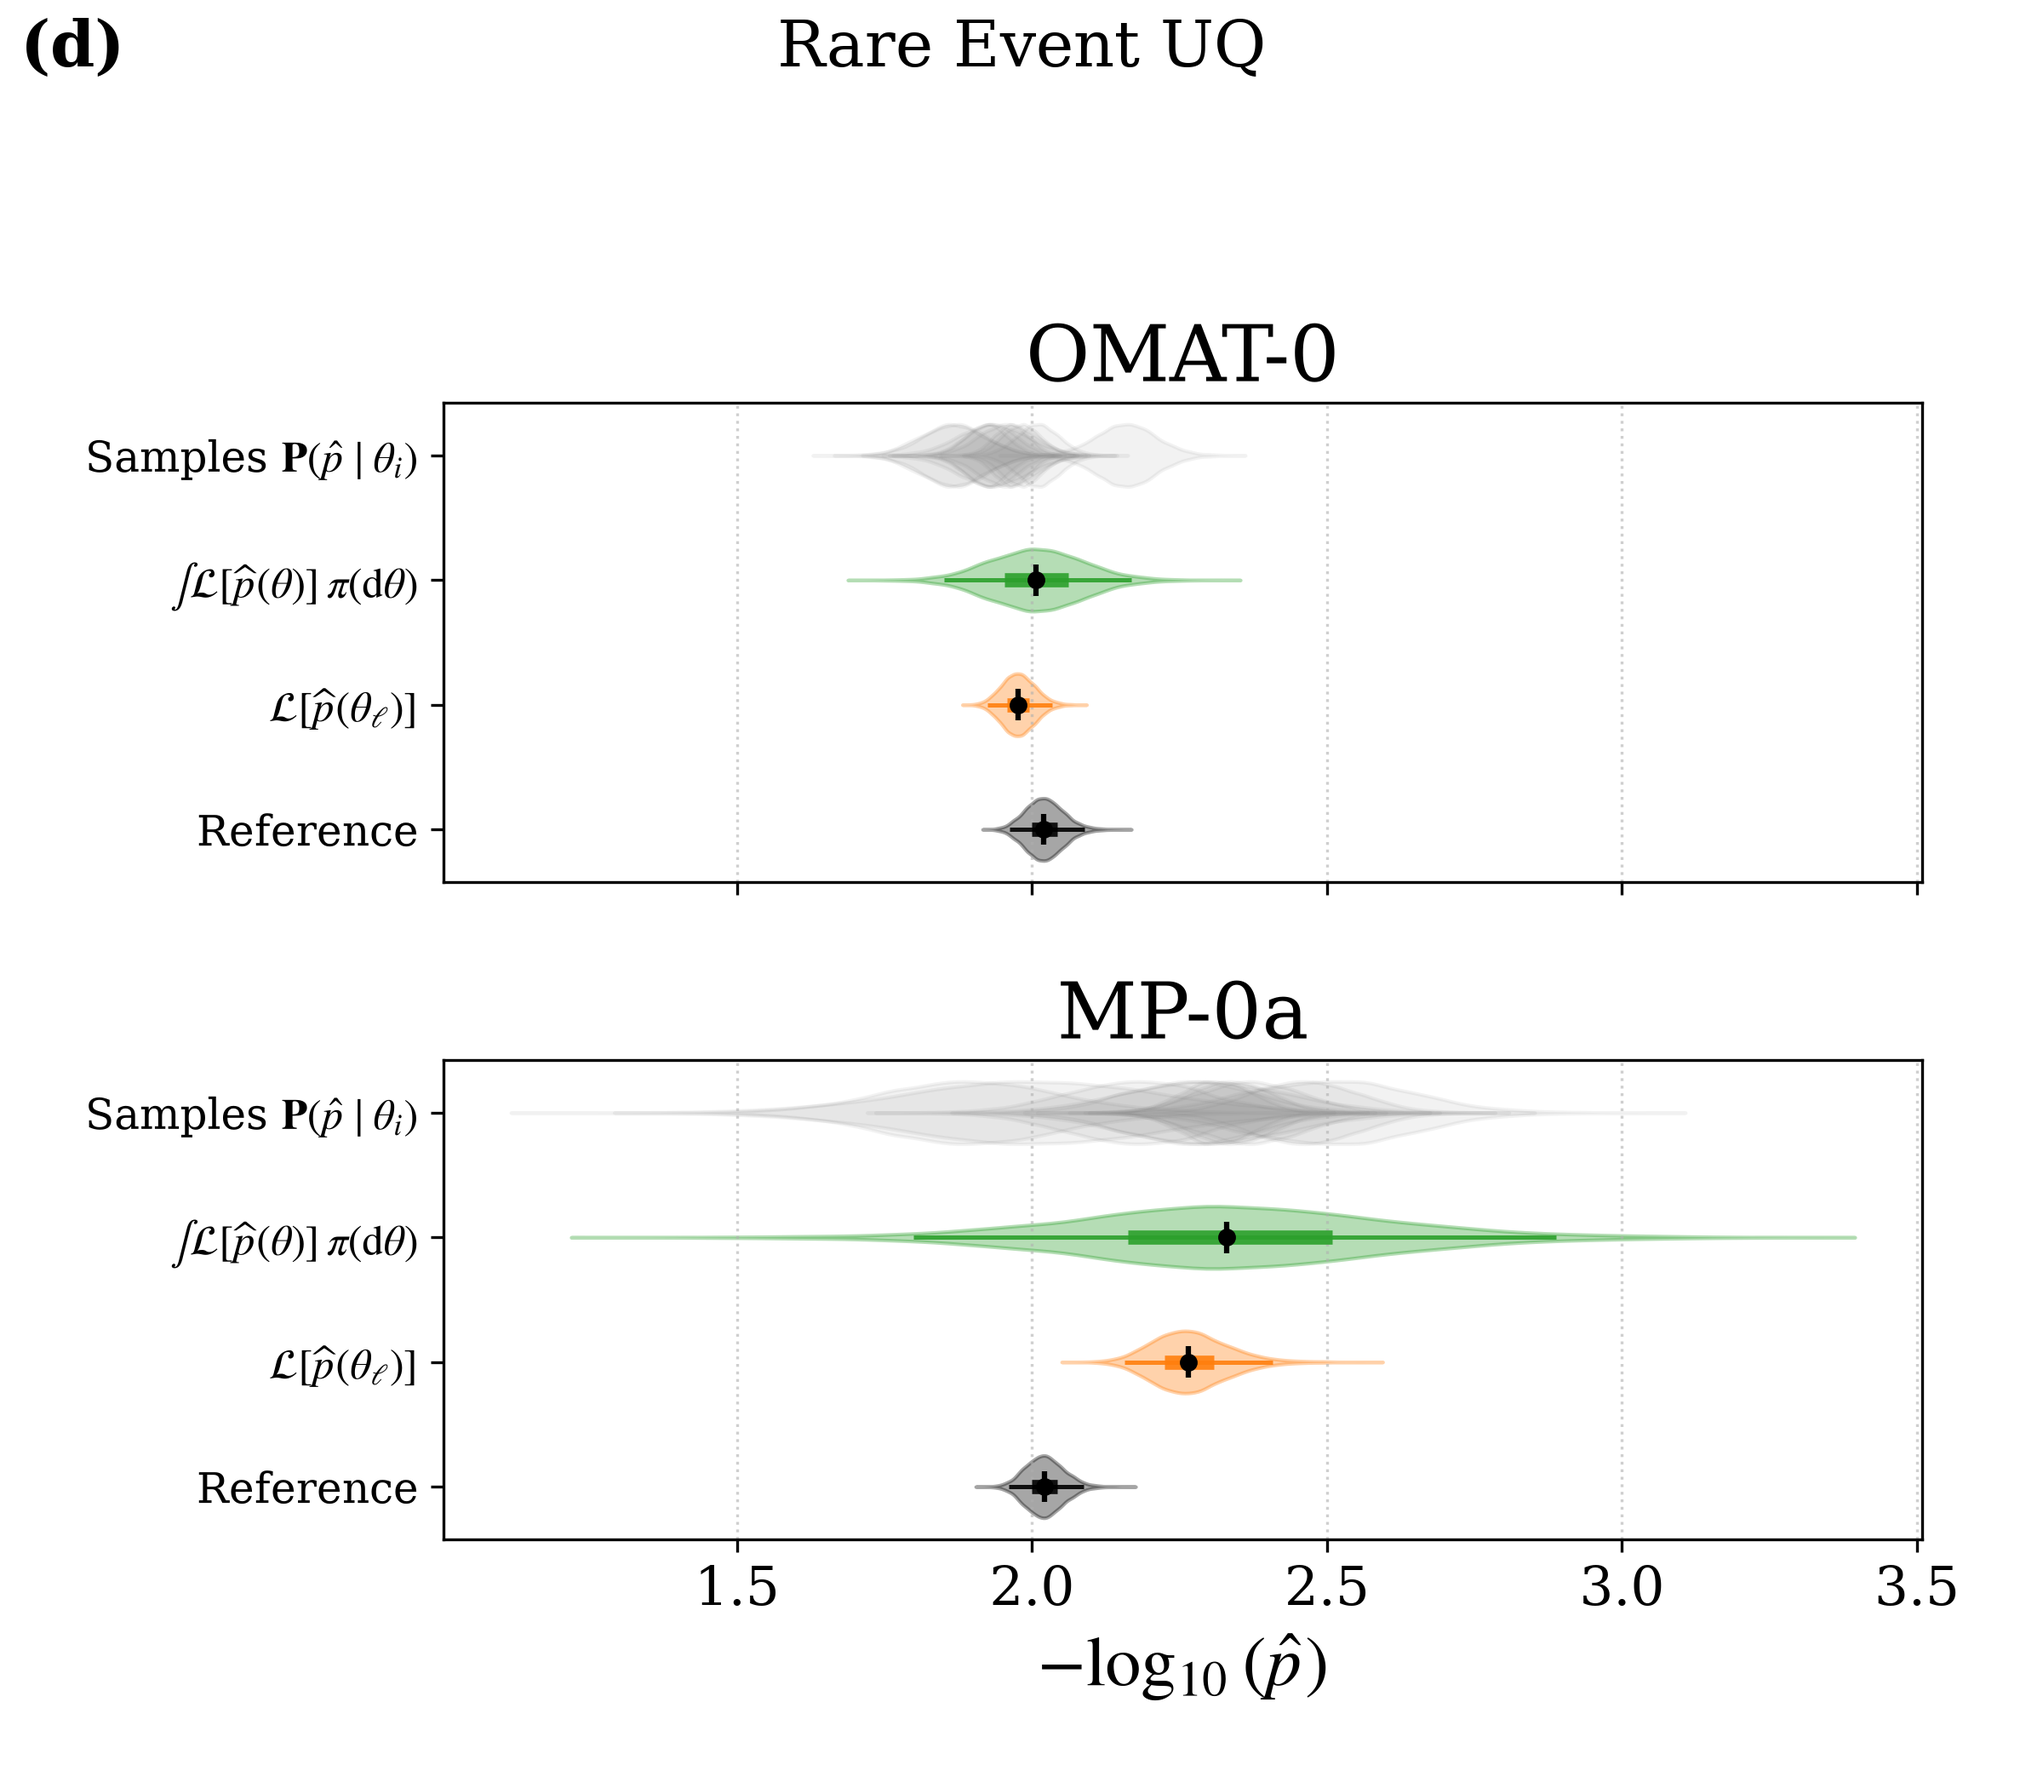
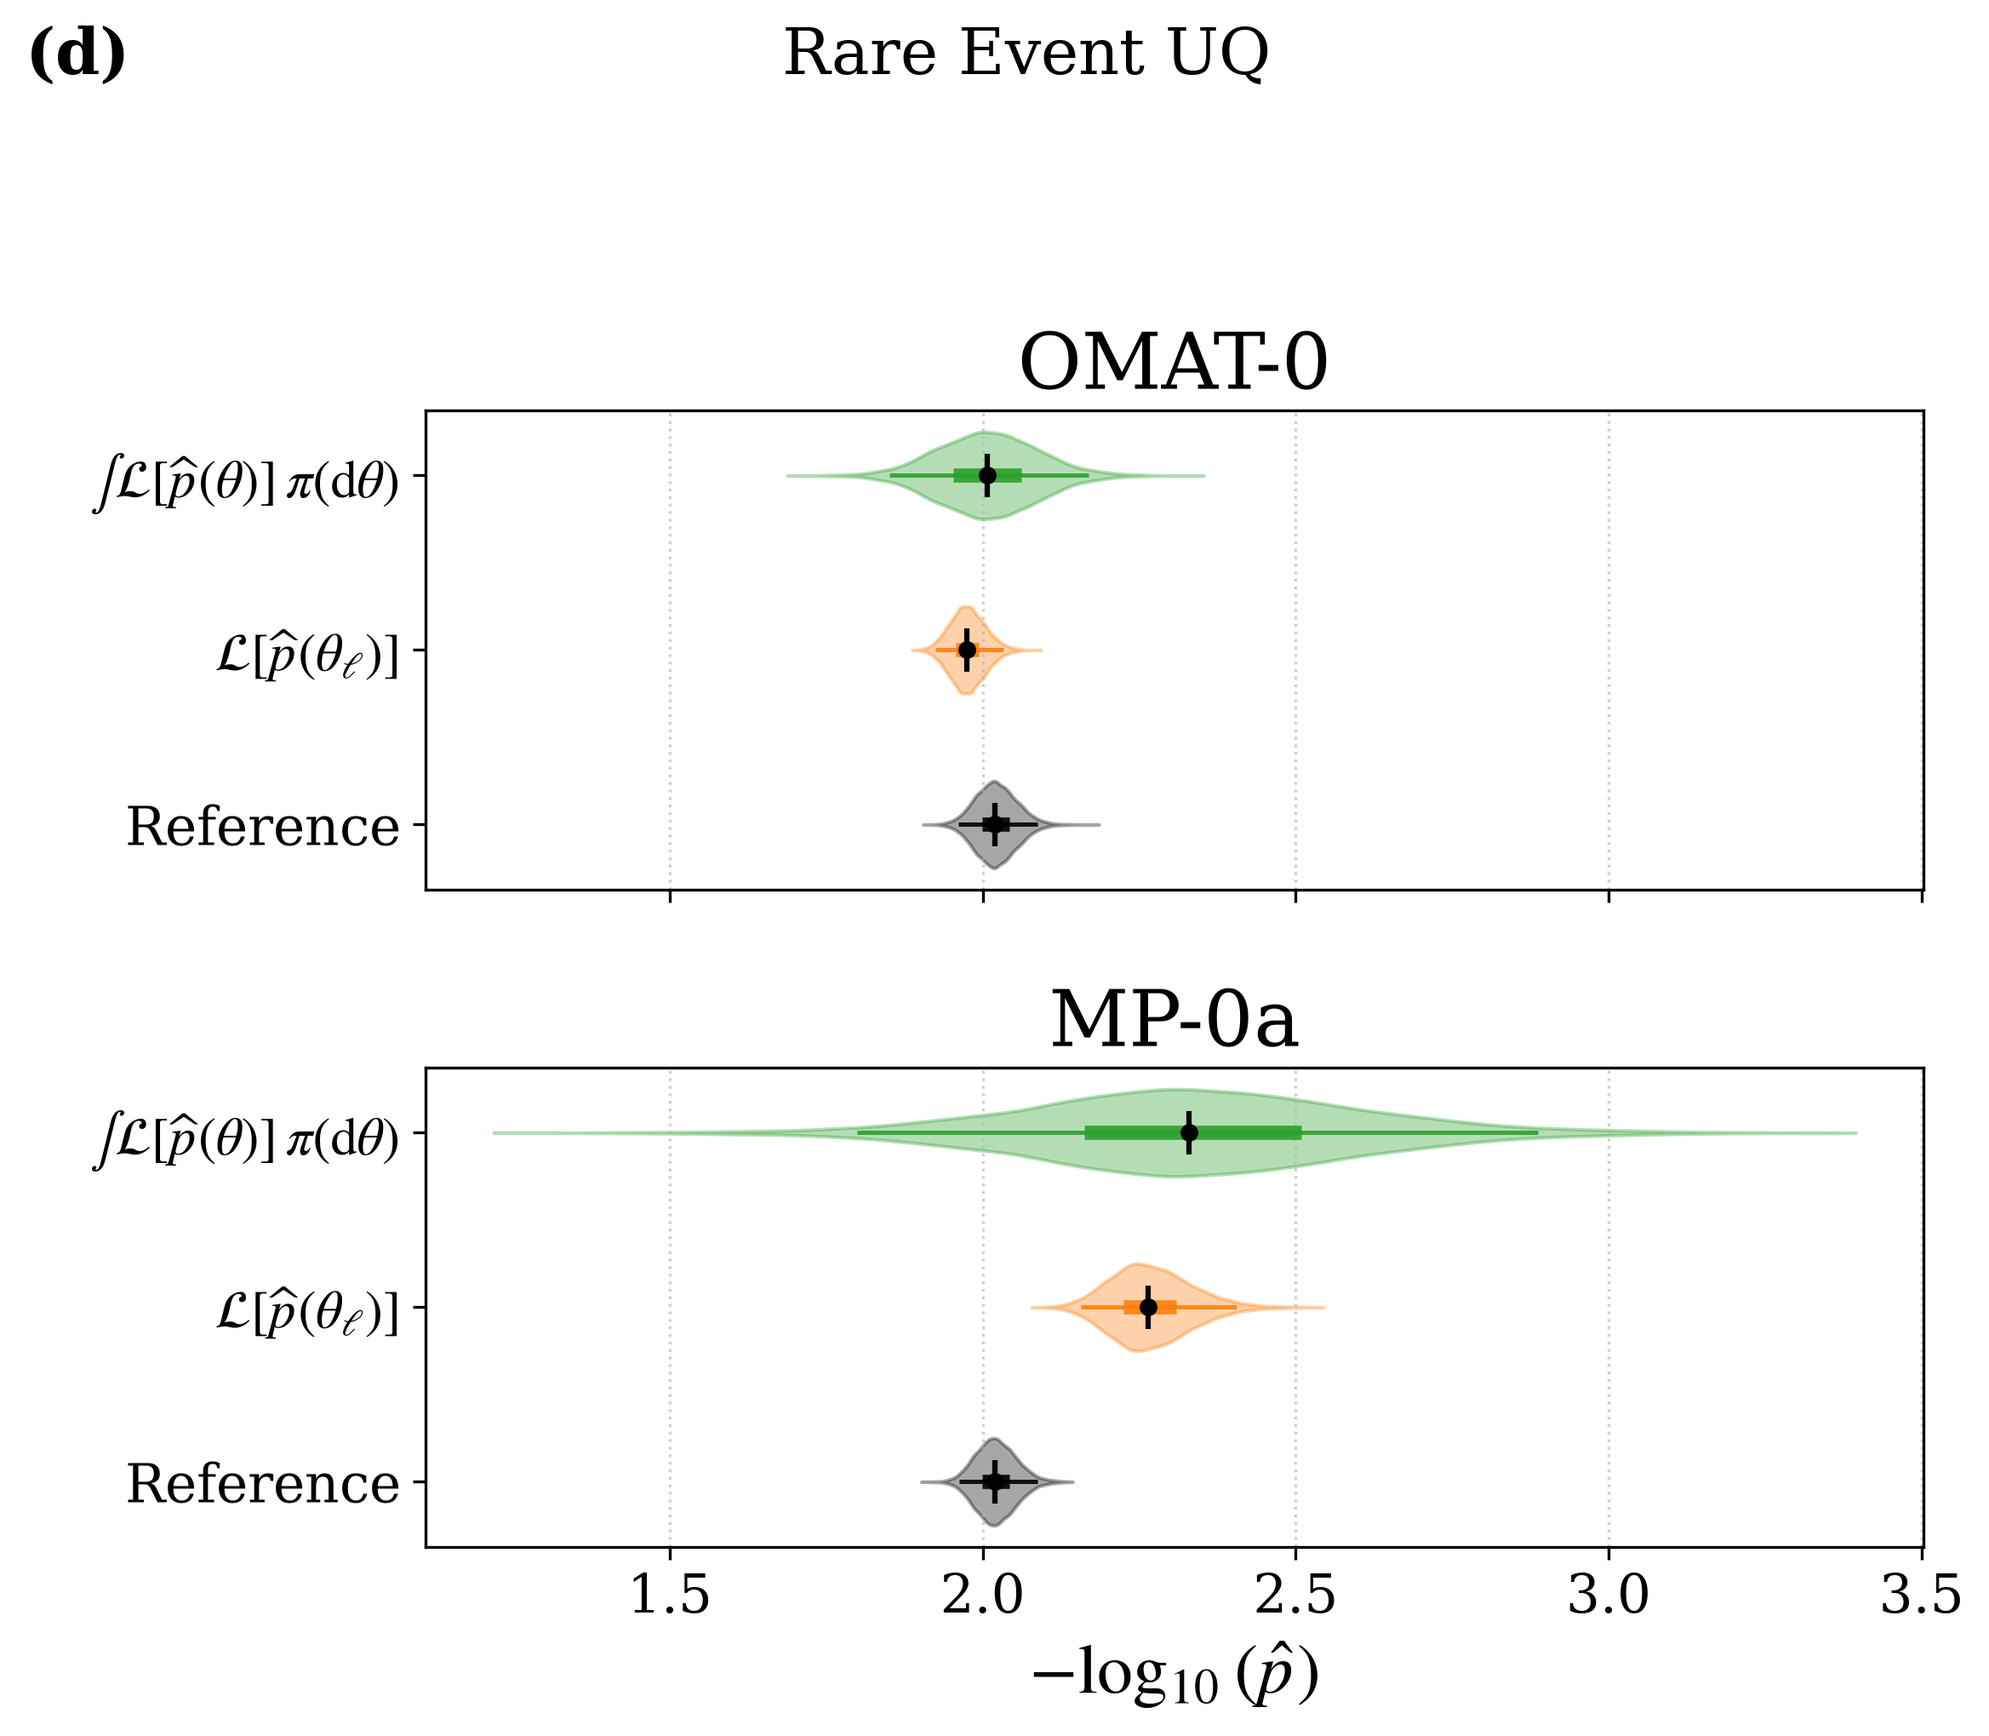
Remove theta samples from violin plots

diff --git a/src/girsanov_uq/utils/utils.py b/src/girsanov_uq/utils/utils.py
@@ -92,7 +92,7 @@ def _draw_raincloud(ax, sample_groups, labels, colors):
     positions = np.arange(len(labels))
     ax.set_yticks(positions, labels=labels)
     ax.set_ylabel("")
-    ax.tick_params(axis="y", labelsize=12)
+    ax.tick_params(axis="y", labelsize=15)
     ax.set_ylim(len(labels) - 0.5, -0.5)
 
 
@@ -882,36 +882,6 @@ def compute_probability_violin(scores, model_probs, thetas_sample, fims=None, re
     else:
         raise ValueError("prior_dist must be 'normal', 'lognormal', or 'beta'")
 
-    theta_plot_samples = []
-    if plot_style == 'violin':
-        if theta_plot_indices is None:
-            theta_plot_indices = rng.choice(
-                len(p_theta),
-                size=min(n_theta_plot, len(p_theta)),
-                replace=False
-            )
-
-        for idx in theta_plot_indices:
-            if prior_dist == 'normal':
-                samples_theta = rng.normal(
-                    loc=p_theta[idx],
-                    scale=sigma_theta[idx],
-                    size=n_samples
-                )
-            elif prior_dist == 'lognormal':
-                samples_theta = rng.lognormal(
-                    mean=np.log(scale_ln[idx]),
-                    sigma=s_ln[idx],
-                    size=n_samples
-                )
-            elif prior_dist == 'beta':
-                samples_theta = rng.beta(
-                    alpha_param[idx],
-                    beta_param[idx],
-                    size=n_samples
-                )
-            theta_plot_samples.append(np.clip(samples_theta, eps, 1.0 - eps))
-
     model_samples = rng.normal(mean_prob, sigma_model, size=n_samples)
     sample_groups = [rho_pi_samples, model_samples]
     labels = [
@@ -933,7 +903,6 @@ def compute_probability_violin(scores, model_probs, thetas_sample, fims=None, re
 
     if use_Ahat:
         sample_groups = [-np.log10(samples) for samples in sample_groups]
-        theta_plot_samples = [-np.log10(samples) for samples in theta_plot_samples]
         xlabel = r'$-\log_{10}(\hat p)$'
     else:
         xlabel = r'$p = p_{A \to B}(\partial A)$'
@@ -961,21 +930,6 @@ def compute_probability_violin(scores, model_probs, thetas_sample, fims=None, re
             body.set_edgecolor(color)
             body.set_alpha(0.35)
 
-        theta_position = len(sample_groups) + 1
-        theta_violins = ax.violinplot(
-            theta_plot_samples,
-            positions=np.full(len(theta_plot_samples), theta_position, dtype=float),
-            vert=False,
-            showmeans=False,
-            showmedians=False,
-            showextrema=False
-        )
-
-        for body in theta_violins['bodies']:
-            body.set_facecolor('gray')
-            body.set_edgecolor('gray')
-            body.set_alpha(0.1)
-
         violins['cmedians'].set_color('black')
         violins['cmedians'].set_linewidth(1.5)
 
@@ -988,9 +942,8 @@ def compute_probability_violin(scores, model_probs, thetas_sample, fims=None, re
             ax.hlines(position, q25, q75, color=color, lw=4.0, alpha=0.9)
             ax.plot(q50, position, marker='o', color='black', markersize=4)
 
-        ax.set_yticks(np.r_[theta_position, positions])
-        ax.set_yticklabels([r'Samples $\mathbf{P}(\hat p \mid \theta_i )$'] + labels)
-        ax.tick_params(axis='y', labelsize=12)
+        ax.set_yticks(positions, labels=labels)
+        ax.tick_params(axis='y', labelsize=15)
     ax.set_xlabel(xlabel)
     ax.grid(True, axis='x', linestyle=':', alpha=0.6)
 
@@ -1113,23 +1066,6 @@ def compute_log_rate_violin(scores, model_probs, loop_times, thetas_sample,
         labels.append(r'Reference')
         colors.append("black")
 
-    theta_plot_samples = []
-    if plot_style == 'violin':
-        if theta_plot_indices is None:
-            theta_plot_indices = rng.choice(
-                len(p_theta),
-                size=min(n_theta_plot, len(p_theta)),
-                replace=False,
-            )
-
-        theta_plot_samples = [
-            np.log10(
-                flux_samples
-                * _draw_lognormal(p_theta[idx], sigma_theta[idx], rng, n_samples, eps=eps)
-            )
-            for idx in theta_plot_indices
-        ]
-
     if ax is None:
         fig, ax = plt.subplots(figsize=(10, 4))
     else:
@@ -1153,21 +1089,6 @@ def compute_log_rate_violin(scores, model_probs, loop_times, thetas_sample,
             body.set_edgecolor(color)
             body.set_alpha(0.35)
 
-        theta_position = len(sample_groups) + 1
-        theta_violins = ax.violinplot(
-            theta_plot_samples,
-            positions=np.full(len(theta_plot_samples), theta_position, dtype=float),
-            vert=False,
-            showmeans=False,
-            showmedians=False,
-            showextrema=False,
-        )
-
-        for body in theta_violins['bodies']:
-            body.set_facecolor('gray')
-            body.set_edgecolor('gray')
-            body.set_alpha(0.1)
-
         violins['cmedians'].set_color('black')
         violins['cmedians'].set_linewidth(1.5)
 
@@ -1180,8 +1101,8 @@ def compute_log_rate_violin(scores, model_probs, loop_times, thetas_sample,
             ax.hlines(position, q25, q75, color=color, lw=4.0, alpha=0.9)
             ax.plot(q50, position, marker='o', color='black', markersize=4)
 
-        ax.set_yticks(np.r_[theta_position, positions])
-        ax.set_yticklabels([r'Samples $\theta_i \sim \pi$'] + labels)
+        ax.set_yticks(positions, labels=labels)
+        ax.tick_params(axis='y', labelsize=15)
     ax.set_xlabel(r'$\log_{10}(k_{AB}) \ (\mathrm{s}^{-1})$')
     ax.grid(True, axis='x', linestyle=':', alpha=0.6)
 

diff --git a/scripts/AMS_butane/plots/visualize_reweighting_violin_k.py b/scripts/AMS_butane/plots/visualize_reweighting_violin_k.py
@@ -22,7 +22,7 @@ for i, model in enumerate(models):
     ref_probs = np.loadtxt(f"../ams_runs_mpa_{temperature}/results_prob.txt")
     loop_times = np.loadtxt(f"../ams_runs_{model}_{temperature}/t_loop.txt")
     ref_loop_times = np.loadtxt(f"../ams_runs_{model}_{temperature}/t_loop.txt")
-    posterior_samples = np.load(f"../ams_runs_{model}_{temperature}/pops/binary_data/posterior_samples_{model}.npy")
+    posterior_samples = np.load(f"../ams_runs_{model}_300/pops/binary_data/posterior_samples_{model}.npy")
 
     compute_log_rate_violin(
         scores[:],
@@ -49,4 +49,4 @@ output_dir = Path(f'{temperature}K')
 if args.style == "raincloud":
     output_dir /= "raincloud"
 output_dir.mkdir(parents=True, exist_ok=True)
-fig.savefig(output_dir / f'uq_{temperature}_{args.style}_k_log.png', dpi=300)
+fig.savefig(output_dir / f'uq_{temperature}_{args.style}_k_log.png', dpi=300, bbox_inches='tight')

diff --git a/scripts/AMS_butane/plots/visualize_reweighting_violin.py b/scripts/AMS_butane/plots/visualize_reweighting_violin.py
@@ -53,4 +53,4 @@ output_dir = Path(f'{temperature}K')
 if args.style == "raincloud":
     output_dir /= "raincloud"
 output_dir.mkdir(parents=True, exist_ok=True)
-fig.savefig(output_dir / f'uq_{temperature}_{args.style}.png', dpi=300)
+fig.savefig(output_dir / f'uq_{temperature}_{args.style}.png', dpi=300, bbox_inches='tight')

diff --git a/scripts/AMS_butane/plots/plot_energy_probability.py b/scripts/AMS_butane/plots/plot_energy_probability.py
@@ -453,5 +453,6 @@ os.makedirs(output_dir, exist_ok=True)
 fig.savefig(
     os.path.join(output_dir, 'energy_probability_all_temperatures.png'),
     dpi=300,
+    bbox_inches='tight',
 )
 plt.show()
